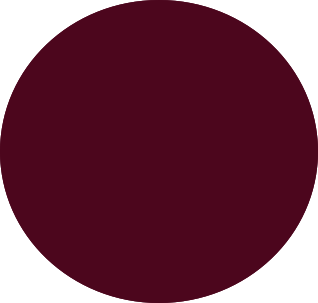
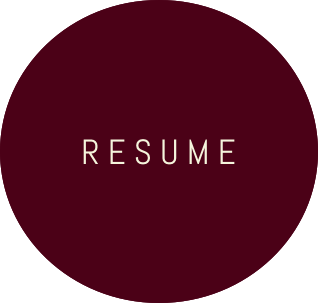
Home Page Done

diff --git a/src/Components/Home.js b/src/Components/Home.js
@@ -4,6 +4,9 @@ import ME2 from "../Static/ME2.png";
 import Resume from "../Static/Resume.png";
 import Projects from "../Static/Projects.png";
 import About from "../Static/About.png";
+import GitHub from "../Static/github.png";
+import Outlook from "../Static/outlook.png";
+import LinkedIn from "../Static/linkedIn.png";
 import { Image, Container, Card, CardGroup, Button } from "react-bootstrap";
 import { MDBContainer } from 'mdb-react-ui-kit';
 
@@ -26,7 +29,7 @@ export default function Home() {
       <Container></Container>
       <Container>
         <CardGroup>
-          <Image className="m-4" roundedCircle src={ME2}  />
+          <img className="m-5" src={ME2}  />
           <Card style={backgroundColor}>
             <Card.Body>
               <Card.Text>
@@ -37,21 +40,18 @@ export default function Home() {
                     loop: true,
                   }}
                 />
-                {/* <h4>
-                FULL STACK WEB DEVELOPER 
-                </h4> */}
-                <hr />
-                <h5>I'm a Full Stack Web Deleloper driven by critical thinking and problem solving. 
-                <br />
-                With a background in Sales and Management I possess the ability to thrive in fast-paced environments which required proactive decision-making. 
-                I flourish in team oriented environments and adapt well to challenges.</h5>
-                
               </Card.Text>
-              <MDBContainer>
-              <a href="#targetname"><Image className="m-sm-5 mb-sm-5" roundedCircle src={Resume} width="115" length="115"/></a>  
-              <a href="#targetname"><Image className="m-sm-5 mb-sm-5" roundedCircle src={Projects} width="110" length="110"/></a> 
+              
+              <Card.Text>
+              <a href='https://linkedin.com/in/dagembefikadu'><Image className="m-sm-5" src={LinkedIn} className="logo" alt="GitHub"width="50" length="50"/></a>
+              <a href={'mailto:dagem.befikadu@outlook.com'}><Image className="m-sm-5" alt="Outlook" src={Outlook}width="50" length="50"/></a>
+              <a href='https://github.com/DagemBefikadu'><Image className="m-sm-5"  src={GitHub} className="logo" alt="GitHub"width="50" length="50"/></a>
+              </Card.Text>
+              <Card.Text>
+              <a href="#targetname"><Image className=" " roundedCircle src={Resume} width="115" length="115"/></a>  
               <a href="#targetname"><Image className="m-sm-5 mb-sm-5" roundedCircle src={About} width="110" length="110"/></a>   
-              </MDBContainer>
+              <a href="#targetname"><Image className="" roundedCircle src={Projects} width="110" length="110"/></a> 
+              </Card.Text>
             </Card.Body>
           </Card>
         </CardGroup>

diff --git a/src/Components/About.js b/src/Components/About.js
@@ -36,3 +36,10 @@ export default function About() {
         </div>
     )
 }
+
+
+// <hr />
+//                 <h5>I'm a Full Stack Web Deleloper driven by critical thinking and problem solving. 
+//                 <br />
+//                 With a background in Sales and Management I possess the ability to thrive in fast-paced environments which required proactive decision-making. 
+//                 I flourish in team oriented environments and adapt well to challenges.</h5>
